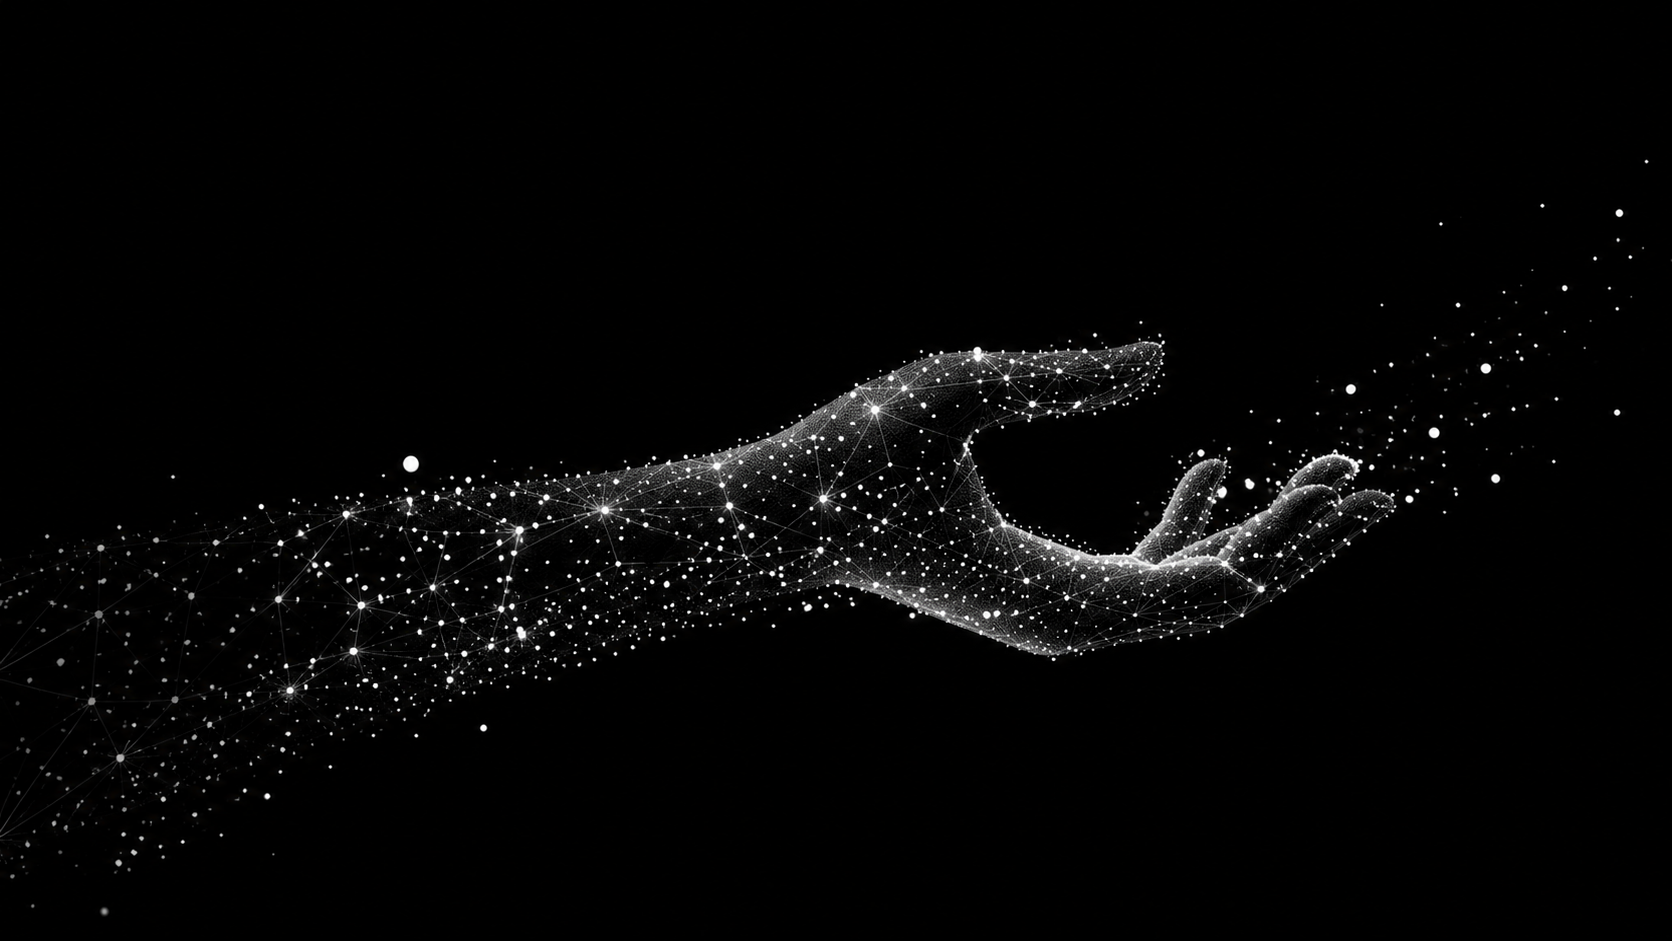
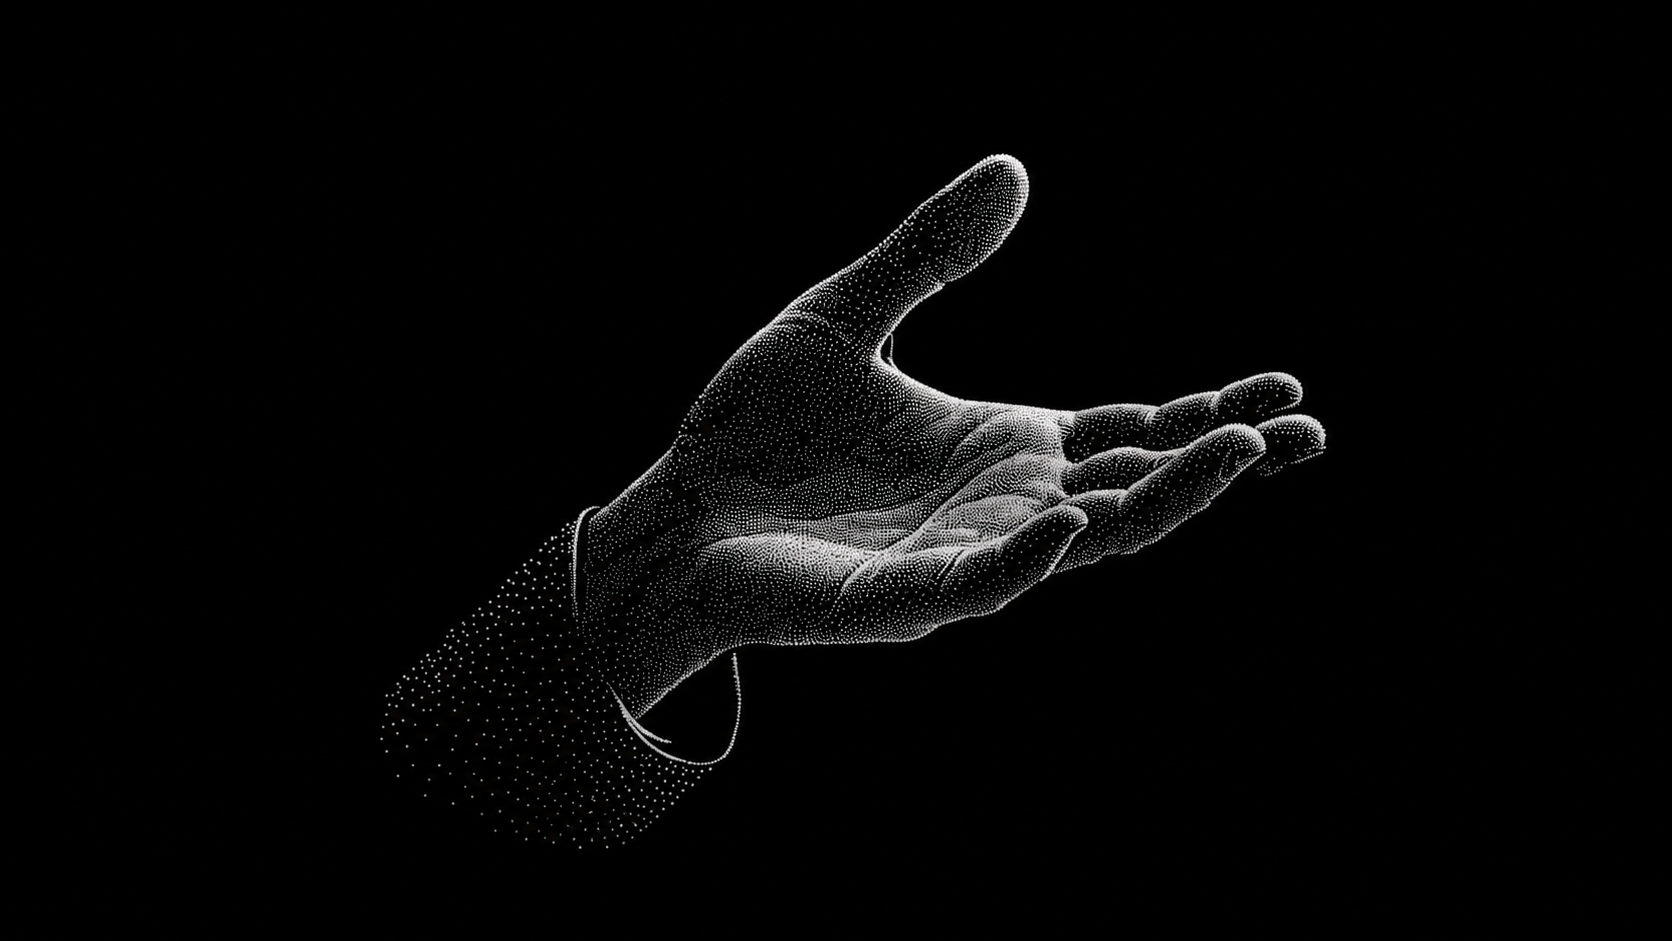
b

diff --git a/src/components/PricingSection.jsx b/src/components/PricingSection.jsx
@@ -1,0 +1,205 @@
+"use client";
+
+import { motion } from "framer-motion";
+import { Check, ArrowRight } from "lucide-react";
+
+const plans = [
+  {
+    name: "Starter Plan",
+    price: "₹14,999",
+    description: "Perfect for small businesses and personal brands.",
+    featured: false,
+    buttonStyle: "bg-[#a2fa8e] text-black",
+    features: [
+      "Custom Landing Page",
+      "Mobile Responsive Design",
+      "Basic SEO Setup",
+      "WhatsApp Integration",
+      "Contact Form",
+      "1 Revision",
+      "Delivery in 5–7 Days",
+    ],
+  },
+  {
+    name: "Growth Plan",
+    price: "₹29,999",
+    description: "Ideal for startups and growing businesses.",
+    featured: true,
+    buttonStyle: "bg-black text-white",
+    features: [
+      "5–8 Page Website",
+      "Premium UI/UX Design",
+      "Advanced SEO Setup",
+      "Performance Optimization",
+      "CMS Integration",
+      "Custom Animations",
+      "3 Revisions",
+      "Priority Support",
+    ],
+  },
+  {
+    name: "Premium Plan",
+    price: "₹49,999+",
+    description: "Complete digital solution for established businesses.",
+    featured: false,
+    buttonStyle: "bg-[#a2fa8e] text-black",
+    features: [
+      "Custom Web Application",
+      "Admin Dashboard",
+      "Booking System",
+      "Blog/CMS",
+      "Advanced Integrations",
+      "SEO Optimization",
+      "Analytics Setup",
+      "Dedicated Support",
+    ],
+  },
+];
+
+export default function PricingSection() {
+  return (
+    <section
+      id="pricing"
+      className="relative w-full py-24 lg:py-32  overflow-hidden"
+    >
+      {/* Background Glow */}
+      <div className="absolute top-40 left-1/2 -translate-x-1/2 w-[700px] h-[700px] bg-[#B9FF66]/5 blur-[150px] rounded-full" />
+
+      <div className="relative max-w-[1440px] mx-auto px-6 lg:px-24">
+        {/* Heading */}
+        <motion.div
+          initial={{ opacity: 0, y: 40 }}
+          whileInView={{ opacity: 1, y: 0 }}
+          transition={{ duration: 0.7 }}
+          viewport={{ once: true }}
+          className="mb-16"
+        >
+          <span className="inline-flex items-center gap-2 text-[#B9FF66] text-sm uppercase tracking-[0.2em] mb-4">
+            ● Pricing
+          </span>
+
+          <h2 className="text-white text-5xl md:text-6xl lg:text-5xl font-bold tracking-tight">
+            Simple Pricing
+          </h2>
+
+          <p className="text-neutral-400 text-lg mt-5 max-w-2xl">
+            Flexible pricing designed for startups, brands, and businesses
+            looking to establish a powerful online presence.
+          </p>
+        </motion.div>
+
+        {/* Pricing Cards */}
+        <div className="grid grid-cols-1 lg:grid-cols-3 gap-8">
+          {plans.map((plan, index) => (
+            <motion.div
+              key={plan.name}
+              initial={{ opacity: 0, y: 60 }}
+              whileInView={{ opacity: 1, y: 0 }}
+              transition={{
+                duration: 0.7,
+                delay: index * 0.15,
+              }}
+              viewport={{ once: true }}
+              whileHover={{ y: -8 }}
+              className={`relative rounded-[32px] border transition-all duration-300 ${
+                plan.featured
+                  ? "bg-[#a2fa8e] text-black border-[#B9FF66]"
+                  : "bg-[#0A0A0A] text-white border-white/10"
+              }`}
+            >
+              {/* Popular Badge */}
+              {plan.featured && (
+                <div className="absolute -top-4 left-6 bg-black text-white px-4 py-2 rounded-full text-sm font-medium">
+                  Most Popular
+                </div>
+              )}
+
+              <div className="p-8 lg:p-10">
+                {/* Plan Name */}
+                <h3 className="text-2xl font-medium mb-3">{plan.name}</h3>
+
+                {/* Description */}
+                <p
+                  className={`mb-8 ${
+                    plan.featured ? "text-black/70" : "text-neutral-400"
+                  }`}
+                >
+                  {plan.description}
+                </p>
+
+                {/* Price */}
+                <div className="flex items-end gap-2 mb-8">
+                  <span className="text-5xl lg:text-6xl font-bold">
+                    {plan.price}
+                  </span>
+                  <span
+                    className={`pb-2 ${
+                      plan.featured ? "text-black/70" : "text-neutral-400"
+                    }`}
+                  >
+                    One-Time
+                  </span>
+                </div>
+
+                {/* Button */}
+                <button
+                  className={`w-full flex items-center justify-center gap-3 py-4 rounded-2xl font-medium text-lg transition-all duration-300 hover:scale-[1.02] ${plan.buttonStyle}`}
+                >
+                  Get Started
+                  <ArrowRight size={20} />
+                </button>
+
+                {/* Divider */}
+                <div
+                  className={`my-8 ${
+                    plan.featured ? "border-black/10" : "border-white/10"
+                  } border-t`}
+                />
+
+                {/* Features */}
+                <div>
+                  <p
+                    className={`mb-5 font-medium ${
+                      plan.featured ? "text-black" : "text-white"
+                    }`}
+                  >
+                    Features
+                  </p>
+
+                  <ul className="space-y-4">
+                    {plan.features.map((feature) => (
+                      <li
+                        key={feature}
+                        className="flex items-start gap-3"
+                      >
+                        <div
+                          className={`flex items-center justify-center w-6 h-6 rounded-full border flex-shrink-0 ${
+                            plan.featured
+                              ? "border-black/50"
+                              : "border-white/30"
+                          }`}
+                        >
+                          <Check size={14} />
+                        </div>
+
+                        <span
+                          className={
+                            plan.featured
+                              ? "text-black/80"
+                              : "text-neutral-300"
+                          }
+                        >
+                          {feature}
+                        </span>
+                      </li>
+                    ))}
+                  </ul>
+                </div>
+              </div>
+            </motion.div>
+          ))}
+        </div>
+      </div>
+    </section>
+  );
+}

diff --git a/src/components/AboutCards.tsx b/src/components/AboutCards.tsx
@@ -3,99 +3,101 @@
 import { ArrowRight } from "lucide-react";
 import { motion } from "framer-motion";
 import Link from "next/link";
+
 export default function AboutCards() {
   return (
     <section className="w-full py-16 lg:py-24">
-      <div className="max-w-[1440px] mx-auto px-6 lg:px-24">
+      <div className="max-w-[1440px] mx-auto px-10 lg:px-32">
         <div className="grid grid-cols-1 md:grid-cols-3 gap-6">
-          
+
           {/* CARD 1 */}
           <motion.div
             whileHover={{ y: -8 }}
             transition={{ duration: 0.3 }}
-            className="relative rounded-[28px] bg-[#B7F07D] p-8 min-h-[460px] flex flex-col justify-between overflow-hidden"
+            className="relative rounded-[28px] bg-[#B7F07D] p-8 min-h-[380px] flex flex-col justify-between overflow-hidden"
           >
             <div>
-              <h3 className="text-black text-3xl font-medium leading-tight max-w-[250px]">
+              <h3 className="text-black text-2xl font-medium leading-tight max-w-[250px] font-bold">
                 Designing Digital Experiences That Perform
               </h3>
 
-              <div className="mt-12 text-black/10">
-                <ArrowRight size={120} strokeWidth={1.5} />
+              <div className="mt-8 text-black/10">
+                <ArrowRight size={100} strokeWidth={1.5} />
               </div>
             </div>
-<a
-  href="#contact"
-  className="w-fit flex items-center gap-3 bg-black text-white px-6 py-4 rounded-2xl text-lg transition-all duration-300 hover:bg-white hover:text-black"
->
-  Let's Talk
-  <ArrowRight size={18} />
-</a>
+
+            <a
+              href="#contact"
+              className="w-fit flex items-center gap-3 bg-black text-white px-4 py-1 rounded-2xl text-lg transition-all duration-300 hover:bg-white hover:text-black"
+            >
+              Let's Talk
+              <ArrowRight size={18} />
+            </a>
           </motion.div>
 
           {/* CARD 2 */}
-        <motion.div
-  className="relative overflow-hidden rounded-[28px]"
->
-  <video
-    autoPlay
-    muted
-    loop
-    playsInline
-    className="absolute inset-0 w-full h-full object-cover"
-  >
-    <source
-      src="/videos/showreel.mp4"
-      type="video/mp4"
-    />
-  </video>
+          <motion.div
+            whileHover={{ y: -8 }}
+            transition={{ duration: 0.3 }}
+            className="relative overflow-hidden rounded-[28px] min-h-[380px]"
+          >
+            <video
+              autoPlay
+              muted
+              loop
+              playsInline
+              className="absolute inset-0 w-full h-full object-cover"
+            >
+              <source
+                src="/videos/showreel.mp4"
+                type="video/mp4"
+              />
+            </video>
 
-  <div className="absolute inset-0 bg-black/30" />
+            <div className="absolute inset-0 bg-black/25" />
 
-  <div className="absolute bottom-8 left-8 z-10">
-    <h2 className="text-white text-7xl font-semibold">
-      98%
-    </h2>
+            <div className="absolute bottom-8 left-8 z-10">
+              <h2 className="text-white text-6xl font-semibold">
+                98%
+              </h2>
 
-    <p className="text-white text-2xl mt-2">
-      Client Satisfaction Rate
-    </p>
-  </div>
-</motion.div>
+              <p className="text-white text-xl mt-2">
+                Client Satisfaction Rate
+              </p>
+            </div>
+          </motion.div>
 
           {/* CARD 3 */}
-        {/* CARD 3 */}
-<Link href="/founders">
-  <motion.div
-    whileHover={{ y: -8 }}
-    transition={{ duration: 0.3 }}
-    className="relative rounded-[28px] overflow-hidden min-h-[460px] block cursor-pointer"
-  >
-    <img
-      src="about-card.png"
-      alt="Meet The Founders"
-      className="absolute inset-0 w-full h-full object-cover"
-    />
+          <Link href="/founders">
+            <motion.div
+              whileHover={{ y: -8 }}
+              transition={{ duration: 0.3 }}
+              className="relative rounded-[28px] overflow-hidden min-h-[380px] block cursor-pointer"
+            >
+              <img
+                src="about-card.png"
+                alt="Meet The Founders"
+                className="absolute inset-0 w-full h-full object-cover"
+              />
 
-    <div className="absolute inset-0" />
+              <div className="relative z-10 p-8 h-full flex flex-col justify-between">
+                <div>
+                  <h1 className="text-black text-5xl font-normal">
+                    Meet the Founders
+                  </h1>
+                </div>
 
-    <div className="relative z-10 p-8 h-full flex flex-col justify-between">
-      <div>
-        <h1 className="text-black text-5xl font-normal">
-          Meet the Founders
-        </h1>
-      </div>
+                <div className="flex justify-end">
+                  <ArrowRight
+                    size={100}
+                    className="text-black/10"
+                    strokeWidth={1.5}
+                  />
+                </div>
+              </div>
+            </motion.div>
+          </Link>
 
-      <div className="flex justify-end">
-        <ArrowRight
-          size={100}
-          className="text-black/10"
-          strokeWidth={1.5}
-        />
-      </div>
-    </div>
-  </motion.div>
-</Link>
         </div>
       </div>
     </section>

diff --git a/src/app/page.tsx b/src/app/page.tsx
@@ -2,6 +2,7 @@ import Hero from "@/components/hero/Hero";
 import About from "@/components/About";
 import AboutCards from "@/components/AboutCards";
 import HomeContent from "@/components/HomeContent";
+import PricingSection from "@/components/PricingSection"
 import FAQSection from "@/components/FAQSection";
 import  ContactSection  from "@/components/ContactSection";
 import Footer from "@/components/Footer";
@@ -13,6 +14,7 @@ export default function Home() {
       <About/>
       <AboutCards/>
        <HomeContent />
+       <PricingSection/>
       <FAQSection />
       <ContactSection/>
       <Footer />
